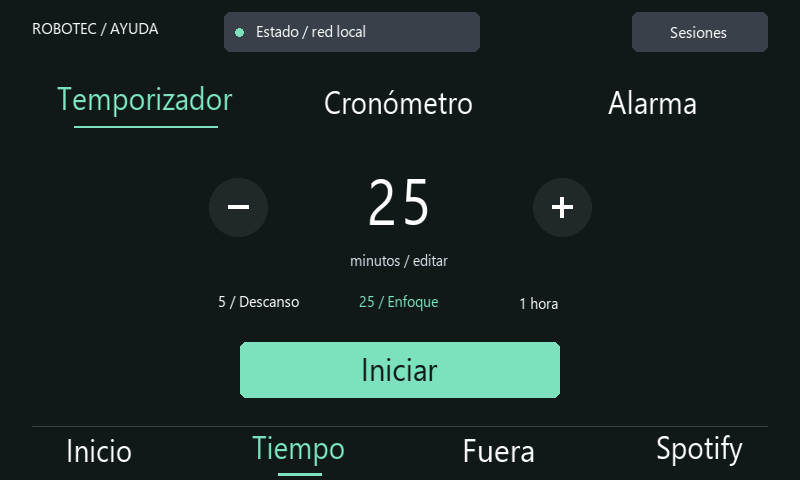
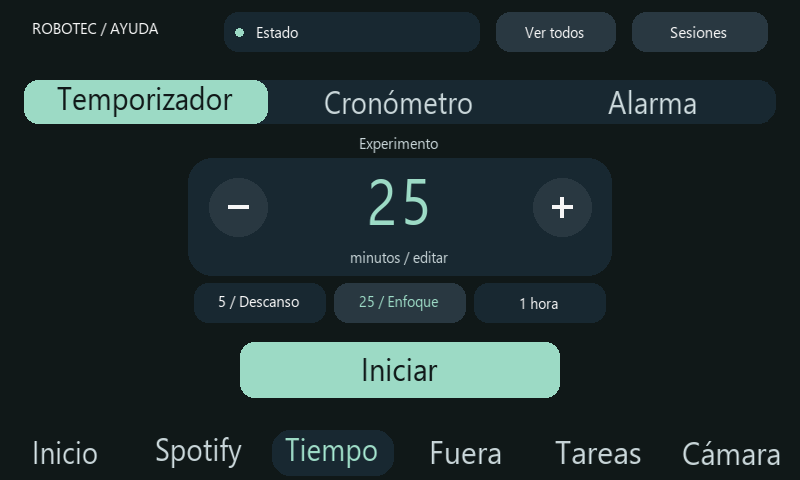
Unifica el acabado visual de Inicio, Tiempo y Fuera

diff --git a/editorial_views.py b/editorial_views.py
@@ -79,12 +79,10 @@ class EditorialViews:
                     self.panel('navpill'+view,left+6,430,right-left-12,46,c['card'],18)
                 self.text('nav'+view,left+14,433,right-left-28,40,0,title,c['mint'] if selected else c['muted'],c['card'] if selected else c['bg'],1)
         if self.screen=='home':
-            self.fill(428,82,1,308,c['button'])
+            self.panel('homeweathercard',448,72,320,344,c['card'],24)
             self.fill(32,268,364,1,c['button'])
         if self.compact and self.screen=='away':
-            self.fill(32,59,736,1,c['button'])
-            self.panel('project',410,80,358,308,c['card'],6)
-            self.fill(32,400,736,1,c['button'])
+            self.panel('project',410,80,358,308,c['card'],24)
         self.dirty=False
 
     def draw_lock(self,now):
@@ -115,23 +113,23 @@ class EditorialViews:
         if '°' not in weather: weather='--°'
         weather=weather.replace(' °C','°')
         if self.cache.get('homeweatherlayout')!=(weather,kind):
-            self.fill(464,78,304,88,c['bg'])
+            self.fill(464,88,288,80,c['card'])
             self.cache.pop('weathericon',None); self.cache.pop('temperature',None)
             self.cache['homeweatherlayout']=(weather,kind)
-        width=self.text_width(weather,1)+8; group=64+16+width; left=464+(304-group)//2
-        self.weather_icon('weathericon',left,89,kind,64,c['bg'],c['gold'],c['blue'],c['blue'])
-        self.text('temperature',left+80,78,width,86,1,weather,c['ink'],c['bg'],1)
+        width=self.text_width(weather,1)+8; group=64+16+width; left=464+(288-group)//2
+        self.weather_icon('weathericon',left,96,kind,64,c['card'],c['gold'],c['blue'],c['blue'])
+        self.text('temperature',left+80,88,width,80,1,weather,c['ink'],c['card'],1)
         condition=network['condition'].split(' / ')[0]
-        font=0 if self.text_width(condition,0)<=304 else 2
-        self.text('condition',464,173,304,40,font,self.fit(condition,304,font),c['ink'],c['bg'],1)
+        font=0 if self.text_width(condition,0)<=288 else 2
+        self.text('condition',464,174,288,40,font,self.fit(condition,288,font),c['ink'],c['card'],1)
         rows,forecast=self.home_weather_rows(network)
         available=any(row['at']>time.time() for row in network.get('forecast',[])) and not network.get('weather_stale')
         weatherhint='Próximas horas / lluvia %' if forecast else LOCATION+(' / ver pronóstico' if available else ' / sin pronóstico')
-        self.text('weatherlocation',464,216,304,26,2,weatherhint,c['muted'],c['bg'],1)
+        self.text('weatherlocation',464,216,288,26,2,self.fit(weatherhint,288),c['muted'],c['card'],1)
         for i,(title,value) in enumerate(rows):
             y=260+i*44
-            self.text('weatherlabel'+str(i),464,y,136,40,2,title,c['muted'],c['bg'])
-            self.text('weathervalue'+str(i),600,y,168,40,0,self.fit(value,168,0),c['ink'],c['bg'],2)
+            self.text('weatherlabel'+str(i),472,y,112,40,2,self.fit(title,112),c['muted'],c['card'])
+            self.text('weathervalue'+str(i),584,y,160,40,0,self.fit(value,160,0),c['ink'],c['card'],2)
         self.text('musiceyebrow',32,282,364,26,2,'TU MÚSICA' if music['status']=='playing' and music.get('is_active',False) else 'SPOTIFY CONNECT',c['mint'],c['bg'])
         self.text('homesong',32,316,364,48,0,self.fit(music['title'] if music['status']=='playing' and music.get('is_active',False) else 'Un poco de música.',364,0),c['ink'],c['bg'])
         self.draw_home_activity(music)
@@ -140,12 +138,12 @@ class EditorialViews:
         c=self.theme; deadline=self.away_timer.data['deadline'] or getattr(self,'away_return',None) or time.time()
         pending=self.away_timer.data['deadline'] is None
         self.text('awayheading',32,13,512,40,0,AWAY_LABELS[getattr(self,'away_label',0)]+'.',c['ink'],c['bg'])
-        self.text('awaystatus',560,18,208,30,2,'SPOTIFY ACTIVO' if self.unlocked else 'SPOTIFY DESACTIVADO',c['muted'],c['bg'],2)
-        self.text('awayreturnlabel',32,83,350,40,0,'REGRESO PENDIENTE' if pending else 'VUELVO A LAS',c['coral'],c['bg'])
+        self.text('awaystatus',560,18,208,30,2,'Spotify activo' if self.unlocked else 'Spotify desactivado',c['muted'],c['bg'],2)
+        self.text('awayreturnlabel',32,90,350,32,2,'REGRESO PENDIENTE' if pending else 'VUELVO A LAS',c['mint'],c['bg'])
         self.digital('awayreturn',24,132,366,142,dt.datetime.fromtimestamp(deadline).strftime('%H:%M'),3,c['ink'],c['bg'])
         remaining='Hora prevista' if pending else 'Faltan '+self.countdown(away=True)
-        self.text('awaycount',32,287,224,40,0 if self.text_width(remaining,0)<=224 else 2,remaining,c['coral'],c['bg'])
-        self.progress('awayprogress',32,345,216,1-self.away_timer.remaining()/max(1,self.away_timer.data['duration']),c['coral'])
+        self.text('awaycount',32,287,224,40,0 if self.text_width(remaining,0)<=224 else 2,remaining,c['mint'],c['bg'])
+        self.progress('awayprogress',32,345,216,1-self.away_timer.remaining()/max(1,self.away_timer.data['duration']),c['mint'])
         self.text('awayprofile',32,362,224,28,2,'github.com/'+GITHUB_USER,c['muted'],c['bg'])
         if 'profileqr' not in self.images:
             try:
@@ -166,7 +164,7 @@ class EditorialViews:
             repo=dict(name='GitHub',description='Los proyectos públicos aparecen al conectar con GitHub.')
             stats='Solo información publica'; number='Sin proyectos'
         self.paragraph('awayrepo',430,137,316,repo['name'],2,0,bg=c['card'])
-        self.paragraph('awaydescription',430,225,316,repo.get('description') or 'Código y documentación de este proyecto en GitHub.',2,0,c['ink'],c['card'])
+        self.paragraph('awaydescription',430,225,316,repo.get('description') or 'Código y documentación de este proyecto en GitHub.',3,2,c['muted'],c['card'])
         self.text('awaystats',430,311,318,25,2,self.fit(stats,318),c['mint'],c['card'])
         self.soft_button('projectprev',430,343,70,32,'<')
         self.text('projectnumber',506,345,168,28,2,number,c['muted'],c['card'],1)

diff --git a/dashboard_views.py b/dashboard_views.py
@@ -65,38 +65,46 @@ class DashboardViews:
 
     def render_time(self):
         c=self.theme
+        self.panel('timemodes',24,80,752,44,c['card'],18)
         for i,(mode,title) in enumerate([('timer','Temporizador'),('watch','Cronómetro'),('alarm','Alarma')]):
-            self.soft_button('mode'+mode,24+i*254,80,244,44,title,self.time_mode==mode,0)
+            if self.time_mode==mode:
+                self.soft_button('mode'+mode,24+i*254,80,244,44,title,True,0)
+            else:self.text('mode'+mode,32+i*254,82,228,40,0,title,c['muted'],c['card'],1)
         self.cache['timemode']=self.time_mode
         if self.time_mode=='alarm':
+            self.panel('alarmpicker',188,148,424,128,c['card'],24)
             field=getattr(self,'alarm_field','minute')
             for name,x,value in [('hour',286,self.alarm.data['hour']),('minute',414,self.alarm.data['minute'])]:
-                self.text('alarm'+name,x,158,100,86,1,f'{value:02}',c['mint'] if field==name else c['ink'],c['bg'],1)
-            self.text('alarmcolon',386,158,28,86,1,':',c['ink'],c['bg'],1)
-            self.icon_button('alarmminus',238,207,29,'minus'); self.icon_button('alarmplus',562,207,29,'plus')
-            self.text('alarmselect',294,247,212,28,2,'Toca hora o minutos',c['muted'],c['bg'],1)
+                self.text('alarm'+name,x,158,100,86,1,f'{value:02}',c['mint'] if field==name else c['ink'],c['card'],1)
+            self.text('alarmcolon',386,158,28,86,1,':',c['ink'],c['card'],1)
+            self.icon_button('alarmminus',238,207,29,'minus',surface=c['card']); self.icon_button('alarmplus',562,207,29,'plus',surface=c['card'])
+            self.text('alarmselect',294,245,212,26,2,'Toca hora o minutos',c['muted'],c['card'],1)
             self.text('alarmvolume',132,282,212,36,2,'Volumen del aviso',c['muted'],c['bg'])
             self.progress('alarmvol',360,296,308,self.alarm.data['volume']/100,c['mint'])
             self.text('alarmpercent',684,282,84,36,2,str(self.alarm.data['volume'])+'%',c['ink'],c['bg'],2)
             self.soft_button('alarmtoggle',240,342,320,56,'Desactivar' if self.alarm.data['enabled'] else 'Activar alarma',True,0)
-            self.text_action('alarmtest',600,342,168,56,'Probar sonido')
+            self.soft_button('alarmtest',600,342,168,56,'Probar sonido')
             deadline=self.alarm.data['deadline']
             status='Programada: '+dt.datetime.fromtimestamp(deadline).strftime('%d/%m · %H:%M') if deadline else 'Se repite hasta detenerla, hasta 3 minutos'
             self.text('alarmhint',32,400,736,23,2,status,c['muted'],c['bg'],1)
             return
         watch=self.time_mode=='watch'
         if watch:
-            self.digital('watchvalue',48,166,450,92,self.hms(self.elapsed()),1,c['ink'],c['bg'])
-            self.analog('watchdial',638,215,69,self.elapsed(),c['muted'],c['mint'],c['bg'])
+            self.panel('watchface',32,148,736,176,c['card'],24)
+            self.digital('watchvalue',48,166,450,92,self.hms(self.elapsed()),1,c['ink'],c['card'])
+            self.analog('watchdial',638,223,61,self.elapsed(),c['muted'],c['mint'],c['card'])
             last=self.watch.get('laps',[])
             detail='Listo para comenzar' if not last else 'Ultima vuelta / '+self.hms(last[-1])
-            self.text('watchdetail',48,282,704,40,2,detail,c['muted'],c['bg'],1)
+            self.text('watchdetail',48,278,450,36,2,detail,c['muted'],c['card'],1)
         else:
             self.text('selectedtimer',32,133,736,24,2,NAMES[self.timers.selected],c['muted'],c['bg'],1)
             self.duration_picker('timer',self.timer.remaining(),[(5,'5 / Descanso'),(25,'25 / Enfoque'),(60,'1 hora')])
         elapsed=self.elapsed()>0 if watch else self.timer.remaining()<self.timer.data['duration']
         self.soft_button('start',240,342,320,56,'Continuar' if elapsed else 'Iniciar',True,0)
-        self.text_action('reset',600,342,168,56,'Reiniciar' if elapsed else '')
+        if elapsed:self.soft_button('reset',600,342,168,56,'Reiniciar')
+        elif 'button:reset' in self.cache:
+            self.fill(600,342,168,56,c['bg'])
+            self.cache.pop('button:reset',None); self.cache.pop('reset',None)
 
     def render_running(self):
         c=self.theme
@@ -111,7 +119,8 @@ class DashboardViews:
             text='Marcar vuelta' if not last else 'Vuelta '+str(self.watch.get('lap_count',len(last)))+' / '+self.hms(last[-1])
             self.button('runlap',124,412,552,36,text)
         else:
-            self.digital('runningtime',24,145,752,155,self.countdown(),3,c['ink'],c['bg'])
+            self.panel('runningface',32,136,736,188,c['card'],24)
+            self.digital('runningtime',48,145,704,155,self.countdown(),3,c['ink'],c['card'])
             self.progress('runbar',124,309,552,1-self.timer.remaining()/max(1,self.timer.data['duration']),c['coral'])
         self.button('runpause',124,342,266,58,'Pausar',True)
         self.button('runreset',410,342,266,58,'Reiniciar')

diff --git a/soft_ui.py b/soft_ui.py
@@ -41,12 +41,19 @@ class SoftUI:
 
     def duration_picker(self,key,seconds,presets):
         c=self.theme
-        self.icon_button(key+'minus',238,207,29,'minus')
-        self.icon_button(key+'plus',562,207,29,'plus')
-        self.digital(key+'value',294,159,212,86,str(max(0,int(seconds)//60)),1,c['ink'],c['bg'])
-        self.text(key+'unit',294,247,212,28,2,('minutos / editar' if int(seconds)%60==0 else f'minutos {int(seconds)%60:02} s'),c['muted'],c['bg'],1)
+        self.panel(key+'picker',188,158,424,118,c['card'],24)
+        self.icon_button(key+'minus',238,207,29,'minus',surface=c['card'])
+        self.icon_button(key+'plus',562,207,29,'plus',surface=c['card'])
+        self.digital(key+'value',294,159,212,86,str(max(0,int(seconds)//60)),1,c['mint'],c['card'])
+        self.text(key+'unit',294,245,212,26,2,('minutos / editar' if int(seconds)%60==0 else f'minutos {int(seconds)%60:02} s'),c['muted'],c['card'],1)
         for i,(minutes,title) in enumerate(presets):
-            self.soft_button(key+'preset'+str(i),194+i*140,283,132,40,title,seconds==minutes*60)
+            self.quiet_choice(key+'preset'+str(i),194+i*140,283,132,40,title,seconds==minutes*60)
+
+    def quiet_choice(self,key,x,y,w,h,title,selected=False,font=2):
+        """Opción secundaria: superficie tenue y acento solo en la selección."""
+        c=self.theme; bg=c['button'] if selected else c['card']
+        self.panel('choice:'+key,x,y,w,h,bg,14)
+        self.text(key,x+8,y+2,w-16,h-4,font,title,c['mint'] if selected else c['ink'],bg,1)
 
     def digital(self,key,x,y,w,h,value,font,foreground,background):
         widths = [text_width(c,font)+2 for c in value]

diff --git a/docs/DISENO.md b/docs/DISENO.md
@@ -2,12 +2,15 @@
 
 El panel utiliza seis destinos principales: Inicio, Spotify, Tiempo, Fuera, Tareas y Cámara. La navegación inferior conserva su posición y destaca el destino actual con una superficie redondeada. La acción principal usa verde claro; las acciones secundarias utilizan una superficie oscura. Los controles de duración admiten ajuste por pasos, valores frecuentes y entrada directa al tocar la cifra.
 
-[Archivo editable en Figma](https://www.figma.com/design/haO2a7ZleMYs7osOep2Ycr/Desk-Hub-Robotec-%E2%80%94-simplificar-y-pulir) en la página **02 · Reproductor y accesos**, con las composiciones de 800 × 480. Contiene capas de texto y vectores editables. Inter sirve como referencia en Figma; la pantalla utiliza las fuentes incorporadas en el HMI. Las imágenes de esta guía reconstruyen los comandos de dibujo con datos de demostración y tipografía aproximada.
+[Archivo editable en Figma](https://www.figma.com/design/haO2a7ZleMYs7osOep2Ycr/Desk-Hub-Robotec-%E2%80%94-simplificar-y-pulir) en la página **02 · Reproductor y accesos**, en el marco **Inicio, Tiempo y Fuera · pulido visual · 800 × 480**, con las composiciones actuales. Contiene capas de texto y vectores editables. Inter sirve como referencia en Figma; la pantalla utiliza las fuentes incorporadas en el HMI. Las imágenes de esta guía reconstruyen los comandos de dibujo con datos de demostración y tipografía aproximada.
 
 ## Legibilidad y controles
 
 - Fondo grafito, texto claro y acento verde suave; la portada no cambia la paleta del reproductor.
 - El reproductor sitúa la portada de 344 × 344 a la izquierda. A la derecha aparecen canción, artista y nombre del álbum, progreso, controles de reproducción y volumen. El título utiliza la fuente grande cuando cabe y dos líneas de tamaño normal cuando necesita más espacio. Los símbolos de anterior y siguiente están centrados como un conjunto de triángulo y barra.
+- Inicio agrupa temperatura, condición y datos del clima en una tarjeta. La hora conserva el mayor tamaño y la música tiene su propia zona con una acción visible.
+- Tiempo comparte una barra de modos y superficies redondeadas para duración, cronómetro y alarma. Los valores frecuentes son secundarios frente a Iniciar; los botones conservan sus zonas táctiles.
+- Fuera utiliza el mismo selector de duración. Durante la salida, la hora de regreso domina la vista y los proyectos públicos se presentan en una tarjeta separada, con el desbloqueo siempre accesible.
 - Las zonas táctiles deben conservar la geometría de los controles visibles. Al modificar un control, revisa tanto su dibujo como su manejo del toque.
 - La vista ambiental puede utilizar colores derivados de la portada. Un toque vuelve al panel antes del bloqueo; después se requiere el PIN.
 
